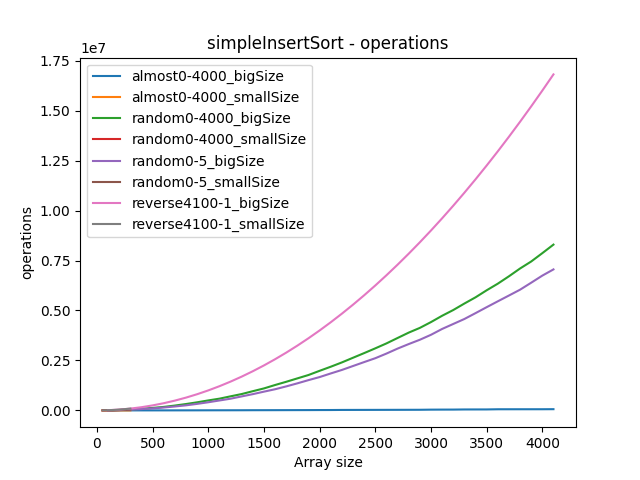
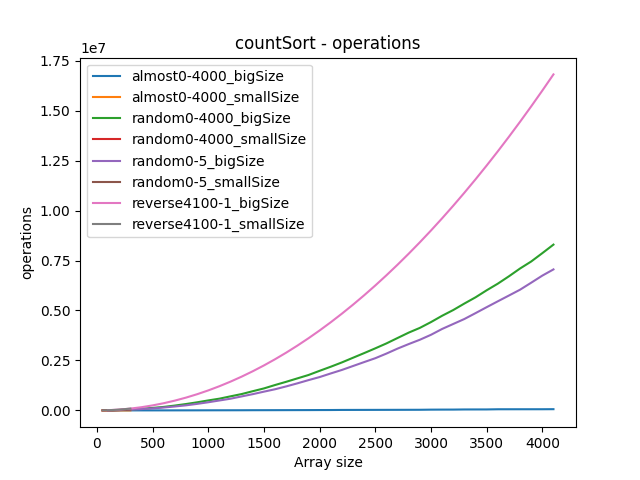
Fix titles

Changed region(s): [[0.3125, 0.0625, 0.6875, 0.125]]

diff --git a/ihw1/graphs.py b/ihw1/graphs.py
@@ -56,7 +56,7 @@ for total_array_size in df["total_array_size"].unique():
 for sort_type in df["sort"].unique():
     for data_type in ["time_ns", "operations"]:
         fig, ax = plt.subplots(nrows=1, ncols=1)
-        ax.set_title(f"{sort} - {data_type}")
+        ax.set_title(f"{sort_type} - {data_type}")
         ax.set_xlabel("Array size")
         ax.set_ylabel(data_type)
 

diff --git a/ihw1/README.md b/ihw1/README.md
@@ -21,6 +21,7 @@
 * Сортировка, совершающая в n раз меньше операций, может быть быстрее больше чем в n раз (вероятно, из-за более оптимального использования кешей)
 * У сортировок есть небольшой скачок в времени выполнения при сортировке полностью обратно отсортированных массивов примерно на границе в 1100 элементов. Скорее всего, тоже дела с кешированием.
 * На достаточно больших чисел и количество операций, и скорость ведет себя ожидаемо асимптотике
+* Ожидаемо, во всех случаях быстрее всего сортируются "почти отсортированные", медленнее всего - обратно отсортированные.
 
 Сами графики:
 
